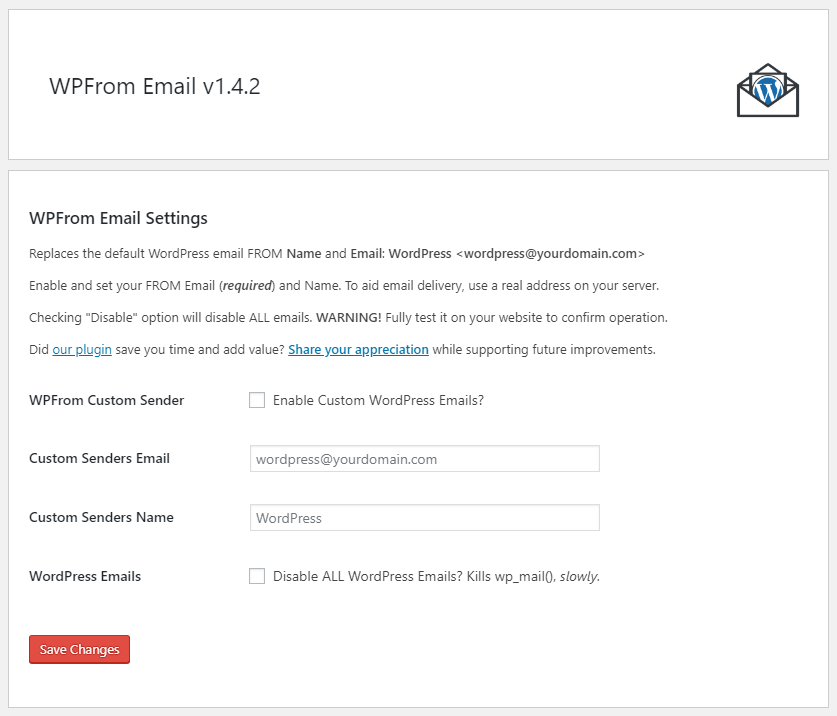
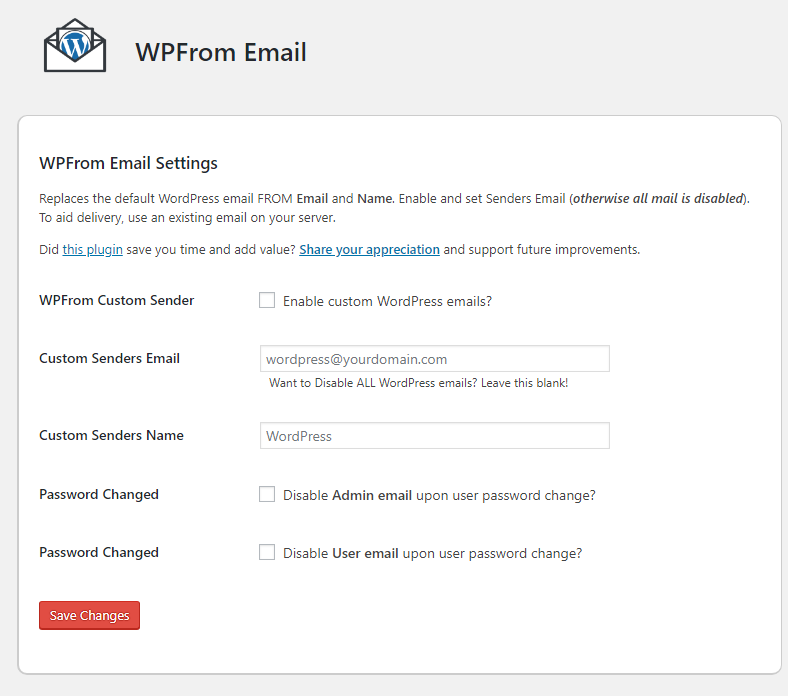
Update to 1.6.1

diff --git a/wpfrom-email.php b/wpfrom-email.php
@@ -1,32 +1,28 @@
 <?php
 /* --------------------------------------------------
 Plugin Name: WPFrom Email
-Plugin URI: https://endurtech.com/wpfrom-wordpress-plugin-change-default-from-email-and-name/
-Description: Replaces the default WordPress email FROM Name and Email: WordPress &lt;wordpress@yourdomain.com&gt;
-Version: 1.6.0
+Plugin URI: https://endurtech.com/wpfrom-email-wordpress-plugin/
+Description: Replaces default WordPress sender FROM Name and Email Address. NEW admin email options.
+Version: 1.6.1
 Author: Manny Rodrigues
 Author URI: https://endurtech.com
 Text Domain: wpfrom-emails
 Domain Path: /locale
 Requires WP: 5.0+
-Tested up to: 5.2.2
+Tested up to: 5.2.3
 License: GPLv3 or later
 License URI: http://www.gnu.org/licenses/gpl-3.0.html
 
 TODOS:
-
-w wanted
-n not wanted
-/ in dev
-x completed
-
-/ New user notification to admin
-w New user notification to user
-n Notify postauthor
-n Notify moderator
-x Password change notification to admin
-x Password change notification to user
-n E-mail address change notification to user
+- Disable 'New User' admin notification email
+- Disable 'New User' user notification email
+- Disable 'Notify postauthor' email
+- Disable 'Notify moderator' email
+- Disable 'E-mail address change' user notification email
+- Add different languages
+COMPLETED:
+- Disable 'Password changed' admin notification
+- Disable 'Password changed' user notification
 
 -------------------------------------------------- */
 
@@ -37,7 +33,7 @@ if( ! defined( 'ABSPATH' ) )
 
 define( 'WPF_TITLE', 'WPFrom Email' ); // Title
 define( 'WPF_SETTINGS', 'WPFrom Email Settings' ); // Settings page title 
-define( 'WPF_VERSION', '1.6.0' ); // Plugin version
+define( 'WPF_VERSION', '1.6.1' ); // Plugin version
 
 /*
 * Load plugin textdomain
@@ -69,8 +65,9 @@ function wpfrom_email_settings_link( $links )
 add_filter( 'dashboard_glance_items', 'wpfrom_dashboard_disabled_notice' );
 function wpfrom_dashboard_disabled_notice( $glances )
 {
-  $email_killer_init = get_option( 'wpfrom_kill_email_id' );
-  if( $email_killer_init == '1' )
+  $email_killed_init = get_option( 'wpfrom_mail_sender_email_id' );
+  $custom_email = get_option( 'wpfrom_custom_sender_id' );
+  if( $email_killed_init == '' && $custom_email == '1' )
   {
     $glances[] = '<li style="float:none;"><i class="dashicons dashicons-email" aria-hidden="true" style="color:#e14d43;"></i> WordPress Emails <strong>Disabled</strong></li>';
 	}
@@ -183,10 +180,8 @@ function wpfrom_pwd_user_email()
 // Page description
 function wpfrom_mail_sender_text()
 {
-  echo '<p>Replaces the default WordPress email FROM <strong>Name</strong> and <strong>Email</strong>: <strong>WordPress &lt;wordpress@yourdomain.com&gt;</strong></p>
-  <p>Enable and set your FROM Email (<strong><em>required</em></strong>) and Name. To aid email delivery, use a real address on your server.</p>
-  <p>Checking "Disable" option will disable ALL emails. <strong>WARNING!</strong> Fully test it on your website to confirm operation.</p>
-  <p>Did <a href="https://endurtech.com/wpfrom-wordpress-plugin-to-change-the-default-from-email-and-name/" target="_blank" title="Opens New Window">our plugin</a> save you time and add value? <a href="https://paypal.me/endurtechnology" target="_blank" title="Opens New Window"><strong>Share your appreciation</strong></a> while supporting future improvements.</p>';
+  echo '<p>Replaces the default WordPress FROM <strong>Email</strong> and <strong>Name</strong>. Enable and set Senders Email (<strong><em>otherwise all mail is disabled</em></strong>).</p>
+  <p>Did <a href="https://wordpress.org/plugins/wpfrom-email/" target="_blank" title="Opens New Window">this plugin</a> save you time and add value? <a href="https://endurtech.com/give-thanks/" target="_blank" title="Opens New Window"><strong>Share your appreciation</strong></a> and support future improvements.</p>';
 }
 
 // Settings form
@@ -250,14 +245,8 @@ if( $pwd_user_email_init == '1' )
   add_filter( 'send_password_change_email', '__return_false' );
 }
 
-
-
-
-
-
-
 /*
-// prevent admin notification email for new registered users or user password changes
+// prevent admin email notification for new registered users or user password changes
 add_action( 'phpmailer_init', 'conditional_mail_stop' );
 function conditional_mail_stop()
 {
@@ -273,8 +262,11 @@ function conditional_mail_stop()
     $phpmailer = new PHPMailer( true );
   }
 }
+*/
 
-// Gravity Forms User Registration Add-on and Custom Notifications? This will Disable the Default WordPress Admin and User Notifications.
+/*
+// Gravity Forms User Registration Add-on and Custom Notifications?
+// This will Disable the Default WordPress Admin and User Notifications.
 if ( ! function_exists( 'gf_new_user_notification' ) )
 {
   function gf_new_user_notification( $user_id, $plaintext_pass = '', $notify = '' )
@@ -283,8 +275,3 @@ if ( ! function_exists( 'gf_new_user_notification' ) )
   }
 }
 */
-
-
-
-
-

diff --git a/README.md b/README.md
@@ -2,58 +2,61 @@
 
 Contributors: Manny Rodrigues  
 Donations: https://endurtech.com/give-thanks/  
-Tags: email,email from,from,outgoing mail,mail,default  
+Tags: email,email from,from,outgoing mail,mail,disable email, default  
 Requires WP: 5.0  
 Tested to: 5.2.3  
-Stable tag: 1.6.0  
+Stable tag: 1.6.1  
 License: GPLv3 or later  
 
 ## Description
 
-> Introducing [WPFrom Email](https://endurtech.com/wpfrom-wordpress-plugin-to-change-the-default-from-email-and-name/), a WordPress Plugin aimed at helping you quickly and easily update the default WordPress sender FROM Name and Email Address.  
+> Introducing [WPFrom Email](https://endurtech.com/wpfrom-email-wordpress-plugin/), a free [WordPress Plugin](https://wordpress.org/plugins/wpfrom-email/) aimed at helping you quickly and easily update the default WordPress sender FROM Name and Email Address.  
 
 > To increase brand authenticity and create name recognition among your visitors it is recommended update how WordPress sends out emails to your subscribers. Leaving the WordPress email sending settings in their default state may even result in email delivery issues. This is because the default wordpress@ emails usually trigger Internet Service Provider and email client spam filters.  
 
-> With this plugin, you may easily update those FROM values or completely disable ALL email sending. *Be sure to test the disable email function on your server environment to ensure proper function.*  
-
-Did this plugin save you time and add value? [Share your appreciation](https://endurtech.com/give-thanks/) and support future improvements.  
+Did [this plugin](https://endurtech.com/wpfrom-email-wordpress-plugin/) save you time and add value? [Share your appreciation](https://endurtech.com/give-thanks/) and support future improvements.  
 
 ## Features
 
-* Easily replace the default WordPress email FROM Name and Email Address.  
-* Disable ALL WordPress emails. Test on your server to confirm operation.  
-* Upon deactivation, all associated database values will be removed.  
+* Easily replace the default WordPress FROM Name and Email Address.
+* Disable ALL WordPress emails. Test on your server to confirm operation.
+* Notice of Disabled WordPress emails within Dashboard At A Glance Metabox.
+* Disable Admin email when a user updates their password on your site.
+* Disable User email notification when someone updates their password.
+* Upon deactivation, all associated database values will be removed.
 
 ## Installation
 
-1. Upload the plugin folder to your '/wp-content/plugins/' folder.  
-2. Activate the plugin through the 'Plugins' menu in WordPress.  
-3. Visit the plugin settings area and adjust as needed.  
+1. Upload the plugin folder to your '/wp-content/plugins/' folder.
+2. Activate the plugin through the 'Plugins' menu in WordPress.
+3. Visit the plugin settings area and adjust as needed.
 
 ## Screenshots
 
-1. WPFrom Email Settings page located under "Settings > WPFrom Email".  
-2. WPFrom Admin Dashboard notice of disabled emails option triggered.  
+1. WPFrom Email Settings page located under "Settings > WPFrom Email".
+2. WPFrom Admin Dashboard notice of disabled emails option triggered.
 
 ## Changelog
 
+* 1.6.1
+  * Fixed Dashboard At a Glance Metabox notice of WordPress Emails Disabled.
 * 1.6.0
-  * +Added ability to disable admin email upon user registration.
+  * Added ability to disable admin email upon user registration.
 * 1.5.0
-  * +Added ability to disable admin email upon user password change.
+  * Added ability to disable admin email upon user password change.
 * 1.4.2
-  * +Updated settings page styles.
+  * Updated settings page styles.
 * 1.4.1
-  * +Updated code formatting.
-  * +Updated GPL licensing.
+  * Updated code formatting.
+  * Updated GPL licensing.
   * Renamed languages folder to locale.
-* 1.4.0  
-  * +Added database cleanup function upon plugin deactivation.  
-* 1.3.0  
-  * +Added notice of disabled emails in admin dashboard at a glance metabox.  
-* 1.2.0  
-  * +Added ability to disable ALL WordPress emails.  
-* 1.0.0  
+* 1.4.0
+  * Added database cleanup function upon plugin deactivation.
+* 1.3.0
+  * Added notice of disabled emails in admin dashboard at a glance metabox.
+* 1.2.0
+  * Added ability to disable ALL WordPress emails.
+* 1.0.0
   * Initial release.
 
 ## Frequently Asked Questions
@@ -61,6 +64,6 @@ Did this plugin save you time and add value? [Share your appreciation](https://e
 * How do I use this plugin?
   * Upon activation, visit the "Settings > WPFrom Email" section and adjust as needed.
 * Emails are not going out?
-  * If you check the "Enable" box, you must provide a senders email address. Otherwise no emails are sent. Another possibility is that you have checked the disable emails box. In that case, uncheck it and save the form.
-* How does it kill wp_mail, *slowly*?
-  * It is just a joke. No functions are injured during execution.
+  * If you check the "Enable" box, you must provide a senders email address. Otherwise no emails are sent.
+* How do I improve email delivery?
+  * Be sure to use a real/existing email address on your server.
